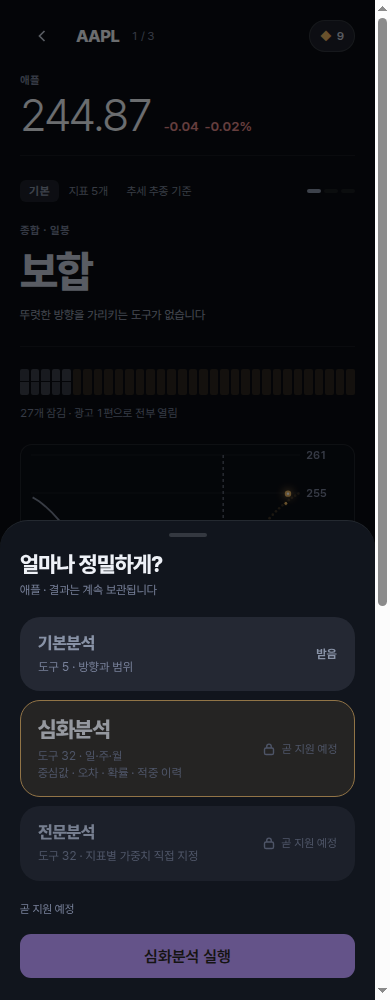
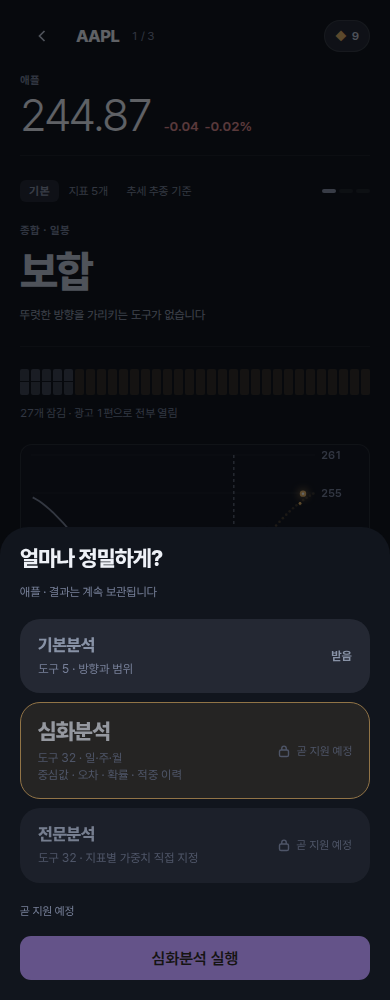
feat(mobile): 단계 선택 시트(6b)를 MSSheet 로 이관 — P1a Task 5
tier-sheet.js 가 자체 .sheet-scrim/.sheet 를 그리던 것을 걷어내고 공용
MSSheet.open({title, body, onClose})(P0)를 쓰도록 다시 짰다. MSSheet 의 첫
프로덕션 소비자가 생기면서 "넷(단계 선택·종목 추가·성향 변경·광고 권유)이
같은 것을 쓴다"가 실현되고, 하드웨어 뒤로가기가 시트부터 닫는다는 사양을
실증할 화면이 앱에 처음 생겼다(Task 7 이 여기 기댄다).

report.js 의 실제 호출 계약({sym,tier,name,balance,cap,onRun,locked})은
그대로 보존했다 — 계획서의 {sym,onPick} 표기는 지시적 요약이었을 뿐이라
report.js 를 고칠 필요가 없었다. 잠금 표시(자물쇠·"곧 지원 예정"·값 숨김)도
그대로다 — report-blocks.js 의 PENDING 이 아직 안 비어 심화·전문 둘 다 잠긴
상태고, 브라우저 관문(report-locked-tiers)이 그 정직성을 계속 검증한다.

워치리스트(screens/watchlist.js ＋Add 시트)는 이번에 옮기지 않았다 — 그
화면 자체가 Task 6(재작성) 대상이라 지금 옮기면 다음 태스크가 다시 손댄다.
옛 .sheet-scrim/.sheet 골격은 그래서 style-sheet.css 에 남겨 두고, 이제
쓰이지 않는 .sheet-head/.sheet-title 만 정리했다(제목은 MSSheet 의
.ms-sheet-title 몫이 됐다).

test/tier-sheet.test.mjs 신규 — sheet.js 를 실제로 require 해 함께 돌리고
document 트리를 관측해 "MSSheet 를 실제로 부르는가"를 확인한다(소스
정규식이 아니다). 브리프의 5건 + 잠금·재오픈·close() 안전성 등 6건 추가.

./tests/run.sh 1591건 통과, node tools/gate-browser.mjs 8라우트 통과.

diff --git a/map/mobile/www/tier-sheet.js b/map/mobile/www/tier-sheet.js
@@ -5,17 +5,40 @@
 // (리뷰 판정, 2026-08-18). report.js 의 pendingOf()/tierBuyable() 이 그 조건을 계산해
 // locked:{full,custom} 로 넘긴다. 예전엔 custom 만 잠글 수 있었는데, 이번엔 full 도
 // 잠길 수 있어 어느 한쪽도 기본 선택으로 남으면 안 된다(아래 open() 의 picked 계산).
-(function () {
+//
+// P1a Task 5 — **MSSheet(sheet.js, P0)의 첫 프로덕션 소비자로 이관했다.** 예전엔 이 파일이
+// 자기 `.sheet-scrim`/`.sheet` 를 직접 그렸다(옛 유일한 소비자는 이제 screens/watchlist.js
+// 의 ＋Add 시트뿐 — 그쪽은 Task 6(워치리스트 재작성)에서 이관한다, 아래 참고). 자체 백드롭을
+// 없애고 `MSSheet.open({title, body, onClose})` 를 쓰면서 얻는 것 셋:
+//   ① 넷(단계 선택·종목 추가·성향 변경·광고 권유)이 정말 같은 컴포넌트를 쓰게 된다(설계 §3.4)
+//   ② 하드웨어 뒤로가기가 "시트부터 닫는다"는 사양(shell.js `MSSheet.closeTop()`)을 실제
+//      화면 하나가 실증한다 — Task 7 이 그 실증에 기댄다
+//   ③ 시트 스택(광고 권유가 단계 선택 시트 **위에** 열리는 것, 시안 진입점 1)이 가능해진다
+// 화면이 그리는 클래스 이름(.sheet-tier·.tier-full·.sheet-run 등)은 안 바꿨다 — 브라우저
+// 관문(gate-routes.mjs report-locked-tiers)이 이 이름들로 잠금 상태를 검증하고, report.js 가
+// 넘기는 호출 계약({sym,tier,name,balance,cap,onRun,locked})도 그대로다(호출부를 다시 읽어
+// 확인함 — 계획서의 {sym,onPick} 표기는 지시적 요약이었다).
+//
+// 워치리스트(screens/watchlist.js openAddSheet)를 이 라운드에 함께 옮기지 않은 이유: 그 화면은
+// 이미 `.sheet-scrim`/`.sheet` 를 직접 그리고 그 안에 ticker-picker.js 의 chrome(제목까지
+// 포함)을 통째로 얹는 구조라, MSSheet 로 옮기려면 ticker-picker.js 의 `multi:false` chrome
+// (자기 제목·부제)과 MSSheet 의 title 인자가 겹치는 문제를 풀어야 한다 — 그 화면 자체가
+// Task 6 에서 재작성 대상이라(브리프), 지금 옮겼다가 다음 태스크가 또 손대면 두 번 옮기는
+// 것이 된다. 대신 이번 태스크는 그 소비자를 절대 깨지 않는다(style-sheet.css 의 `.sheet-scrim`/
+// `.sheet` 골격을 그대로 남겨 둔다) — 확인: `node --test test/*.test.mjs` 전량 + 워치리스트
+// 화면 자체를 만지지 않음.
+(function (root, factory) {
+  if (typeof module !== "undefined" && module.exports) module.exports = factory();
+  else MSGlobals.define("MSTierSheet", factory());
+})(typeof self !== "undefined" ? self : this, function () {
   "use strict";
 
-  var busy = false;   // 보조 가드 — 실제 이중 과금 차단은 report.js 의 모듈 스코프 purchases 레코드가 한다
-                       // (화면을 떠났다 와도 유지된다). 여기는 같은 시트 안에서 Full 행 재탭·Run 재클릭으로
-                       // onRun 이 두 번 불리는 것만 막는다.
+  var busy = false;    // 보조 가드 — 실제 이중 과금 차단은 report.js 의 모듈 스코프 purchases 레코드가 한다
+                        // (화면을 떠났다 와도 유지된다). 여기는 같은 시트 안에서 Full 행 재탭·Run 재클릭으로
+                        // onRun 이 두 번 불리는 것만 막는다.
+  var handle = null;    // MSSheet.open() 이 돌려준 핸들 — close() 는 이걸로 닫는다(DOM 을 직접 찾지 않는다)
 
-  function close() {
-    var s = document.querySelector(".sheet-scrim");
-    if (s && s.parentNode) s.parentNode.removeChild(s);
-  }
+  function close() { if (handle) handle.close(); }
 
   // 시안 6b — 오른쪽 자리는 세 티어가 서로 다른 것을 보여준다: 기본은 "받음"(이미 무료로
   // 받았다), 심화·전문은 값(스쿱 수). 셋을 한 함수 안에서 분기하면 "왜 이 행만 다르게
@@ -57,7 +80,9 @@
     return r;
   }
 
-  // opts = { tier, balance, onRun(tier), locked:{full,custom} }
+  // opts = { sym, name, tier, balance, cap, onRun(tier), locked:{full,custom} } — report.js 의
+  // 실제 호출부(buildCta·afterCtaAd) 그대로. `tier`(현재 화면이 이미 보고 있는 티어)는 이
+  // 시트가 안 쓴다 — 참고용으로 넘어오지만 picked 계산은 늘 locked 에서만 나온다.
   function open(opts) {
     var o = opts || {}, locked = o.locked || {};
     // 기본 선택은 "지금 살 수 있는 첫 번째"다 — 심화(full)를 먼저 본다(원래도 기본값이었다).
@@ -65,11 +90,7 @@
     var picked = !locked.full ? "full" : (!locked.custom ? "custom" : null);
     var bal = (typeof o.balance === "number") ? o.balance : null;
     busy = false;
-    close();
-
-    var scrim = MSUi.el("div", "sheet-scrim");
-    scrim.addEventListener("click", function (e) { if (e.target === scrim) close(); });
-    var sheet = MSUi.el("div", "sheet");
+    close();   // 이전 시트가 남아 있으면 먼저 닫는다 — 안 그러면 재오픈마다 MSSheet 스택에 쌓인다
 
     function preview(cost) {
       // 표시 전용. 백엔드가 진짜 잔량을 돌려준다(SPEC §1).
@@ -77,15 +98,14 @@
       if (bal == null || bal < cost) return "";
       return bal + " → " + (bal - cost);
     }
+
+    // list 는 paint() 마다 다시 그리는 부분(티어 선택이 바뀔 때마다)이다. 제목은 이제
+    // MSSheet 가 그리고(`.ms-sheet-title`), 부제는 종목마다 고정이라 한 번만 그린다 — 둘 다
+    // 매 paint() 에 다시 만들 이유가 없다(재생성하면 스크롤 위치가 튈 수 있다).
+    var list = MSUi.el("div");
+
     function paint() {
-      sheet.innerHTML = "";
-      // 시안 6b 의 시트 머리 — 큰 제목("얼마나 정밀하게?") + 종목·보관 안내 부제. 예전엔
-      // 제목 자체가 "Analyse {sym}" 이라 종목별로 달라졌는데, 시안은 제목을 고정해 "정밀도를
-      // 고르는 화면"이라는 것부터 말하고 종목은 그 아래 한 줄로 내린다.
-      var head = MSUi.el("div", "sheet-head");
-      head.appendChild(MSUi.el("p", "sheet-title", MSStr.t.tsTitle));
-      head.appendChild(MSUi.el("p", "sheet-subtitle", (o.name || o.sym || "") + MSStr.t.tsResultsKept));
-      sheet.appendChild(head);
+      list.innerHTML = "";
 
       var tiers = MSUi.el("div", "sheet-tiers");
       tiers.appendChild(tierRow("basic", MSStr.t.tsBasic, MSStr.t.tsBasicDesc, { done: true }));
@@ -98,17 +118,17 @@
       tiers.appendChild(tierRow("custom", MSStr.t.tsCustom, MSStr.t.tsCustomDesc,
         { on: picked === "custom", locked: !!locked.custom, cost: MSWallet.COSTS.custom,
           onPick: function () { if (busy) return; picked = "custom"; paint(); } }));
-      sheet.appendChild(tiers);
+      list.appendChild(tiers);
 
       // picked 가 null 이면(심화·전문 둘 다 잠김) 고를 게 없다 — 비용 미리보기·Run 버튼을
       // 그리기 **전에** 여기서 끝낸다. 순서가 중요하다: preview(MSWallet.COSTS[picked]) 를
       // 먼저 부르면 picked=null → COSTS[null]=undefined → "9 → NaN" 이 그려진다(실측, 리뷰
       // 지시로 만든 관문 스크린샷에서 발견) — cost 가 없는 상태에서 cost 문구를 만들 수 없다.
       if (picked === null) {
-        sheet.appendChild(MSUi.el("p", "sheet-short", MSStr.t.tsSoon));
+        list.appendChild(MSUi.el("p", "sheet-short", MSStr.t.tsSoon));
         var run0 = MSUi.el("button", "btn btn-primary sheet-run", MSStr.t.tsFull + MSStr.t.tsRun);
         run0.disabled = true;
-        sheet.appendChild(run0);
+        list.appendChild(run0);
         return;
       }
 
@@ -127,7 +147,7 @@
       // 안 그린다. 상한을 지어내 보여주지 않는다(코디네이터 판정 2026-08-16, 종목 슬롯 문구와
       // 같은 이유 — 뒷받침 없는 숫자는 화면에 안 올린다).
       if (o.cap != null) costLine.appendChild(MSUi.el("span", "sheet-cost-cap", MSStr.t.walCap + o.cap));
-      if (pv || o.cap != null) sheet.appendChild(costLine);
+      if (pv || o.cap != null) list.appendChild(costLine);
 
       var cost = MSWallet.COSTS[picked];
       var run = MSUi.el("button", "btn btn-primary sheet-run",
@@ -138,8 +158,8 @@
       var unavailable = (bal == null);
       var short = !unavailable && bal < cost;
       run.disabled = short || unavailable;
-      if (unavailable) sheet.appendChild(MSUi.el("p", "sheet-short", MSStr.t.tsUnavailable));
-      else if (short) sheet.appendChild(MSUi.el("p", "sheet-short", MSStr.t.tsShort));
+      if (unavailable) list.appendChild(MSUi.el("p", "sheet-short", MSStr.t.tsUnavailable));
+      else if (short) list.appendChild(MSUi.el("p", "sheet-short", MSStr.t.tsShort));
       run.addEventListener("click", function () {
         if (busy) return;
         // picked 가 잠긴 티어일 수는 구조상 없다(잠긴 행은 onPick 이 안 달려 골라지지
@@ -149,13 +169,19 @@
         run.disabled = true; run.textContent = MSStr.t.tsRunning;
         if (o.onRun) o.onRun(picked);
       });
-      sheet.appendChild(run);
+      list.appendChild(run);
     }
-    paint();
 
-    scrim.appendChild(sheet);
-    document.body.appendChild(scrim);
+    // 시트 몸통 — 부제(종목·보관 안내) + list(티어·비용·실행). 예전엔 제목까지 이 파일이
+    // 직접 그렸는데(sheet-head), 이제 제목은 MSSheet 의 몫이라 여기선 부제부터 시작한다.
+    var body = MSUi.el("div");
+    body.appendChild(MSUi.el("p", "sheet-subtitle", (o.name || o.sym || "") + MSStr.t.tsResultsKept));
+    body.appendChild(list);
+
+    handle = MSSheet.open({ title: MSStr.t.tsTitle, body: body, onClose: function () { handle = null; } });
+    paint();
+    return handle;
   }
 
-  window.MSTierSheet = { open: open, close: close };
-})();
+  return { open: open, close: close };
+});

diff --git a/map/mobile/www/style-sheet.css b/map/mobile/www/style-sheet.css
@@ -3,22 +3,23 @@
    <link> 순서를 바꾸거나 한 장을 빼면 나중 규칙이 앞 규칙을 덮던 관계가 끊긴다.
    순서는 이 머리의 `분할본 N/M` 이 정본이고, 관문(style-split.test.mjs)이 그것과
    index.html 의 <link> 차례를 대조한다 — 사람이 기억하는 순서에 기대지 않는다. */
-/* ===== 바텀시트 공통 골격(시안 12a·6b — 두 시트가 이 셋을 함께 쓴다: tier-sheet.js,
-   screens/watchlist.js openAddSheet) ===== */
+/* ===== 바텀시트 공통 골격(시안 12a) — 지금 남은 유일한 직접 소비자는
+   screens/watchlist.js 의 openAddSheet(＋Add) 다. tier-sheet.js(6b)는 P1a Task 5 에서
+   MSSheet(sheet.js, 아래 §"공용 하단 시트")로 이관했다 — 워치리스트는 그 화면 자체가
+   Task 6(재작성) 대상이라 이 라운드엔 함께 옮기지 않았다(tier-sheet.js 머리 주석 참고).
+   그래서 이 골격은 아직 지운다. ===== */
 .sheet-scrim { position:fixed; inset:0; background:rgba(0,0,0,.55); display:flex; align-items:flex-end; z-index:20; }
-/* 상단 라운드 28px(시안 고정값) + 드래그 손잡이. 두 시트 모두 같은 손잡이를 쓰므로 .sheet
-   자신이 ::before 로 그린다 — 그려야 할 곳마다 다시 그리면 한쪽만 잊기 쉽다. */
+/* 상단 라운드 28px(시안 고정값) + 드래그 손잡이. .sheet 자신이 ::before 로 그린다. */
 .sheet { position:relative; width:100%; max-height:80vh; overflow-y:auto; background:var(--sheet);
          border-top:1px solid var(--hairline-2); border-radius:28px 28px 0 0;
          padding:30px 20px calc(22px + env(safe-area-inset-bottom)); }
 .sheet::before { content:""; position:absolute; top:12px; left:50%; transform:translateX(-50%);
                   width:38px; height:4px; border-radius:99px; background:var(--border-strong); }
 
-/* 시트 머리 — 큰 제목 + 부제 두 줄(시안 12a·6b 공통 패턴). 잔량 필은 더 이상 여기 없다 —
-   심화분석 행 자체가 값을 보여주고, 잔량 대조는 costLine("쓰면 12 → 9")의 몫이다. */
-.sheet-head { margin-bottom:20px; }
-.sheet-title { margin:0; font-size:var(--fs-title); font-weight:var(--fw-title); letter-spacing:var(--ls-title); }
-.sheet-subtitle { margin:6px 0 0; font-size:var(--fs-sub); color:var(--ink-5); }
+/* 시트 부제(시안 6b) — tier-sheet.js 가 .ms-sheet-body 안에 그린다. 제목 자체는 이제
+   MSSheet 의 .ms-sheet-title 몫이라 여기 남는 건 부제 한 줄뿐이다(예전엔 .sheet-head 가
+   제목+부제를 함께 묶고 아래 여백 20px 를 줬는데, 그 역할을 이 규칙 하나가 이어받는다). */
+.sheet-subtitle { margin:6px 0 20px; font-size:var(--fs-sub); color:var(--ink-5); }
 
 /* 단계 카드 3장(시안 6b) — 목록형 대신 각자 배경을 가진 카드다. 선택·강조는 배경·테두리·
    글자색으로만 한다(좌측 세로 라인 금지, 프로젝트 전역 규칙). */
@@ -86,9 +87,9 @@ body.ms-dual .wl-row.is-sel { background:var(--steel-soft); }
 
 /* ===== 공용 하단 시트(sheet.js, Task 5) =====
    단계 선택(6b)·종목 추가(12a)·성향 변경(12b)·광고 권유가 전부 이 컴포넌트 하나를 쓴다.
-   위 .sheet-scrim/.sheet(tier-sheet.js·screens/watchlist.js 가 이미 직접 그린다)와는
-   이름을 겹치지 않게 새로 둔다 — 기존 두 소비자를 깨지 않고, P1 에서 그 화면들이
-   이 컴포넌트로 옮겨온다. --sheet 는 #11151d(style-base.css) — 시안 배경값과 같다. */
+   위 .sheet-scrim/.sheet 와는 이름을 겹치지 않게 새로 뒀다 — tier-sheet.js(6b)는 이제
+   이 컴포넌트로 이관 완료(Task 5), screens/watchlist.js(12a)는 아직 옛 골격을 쓴다
+   (Task 6 에서 옮겨온다). --sheet 는 #11151d(style-base.css) — 시안 배경값과 같다. */
 .ms-sheet-backdrop {
   position:fixed; inset:0; z-index:40;
   display:flex; align-items:flex-end;
@@ -105,14 +106,16 @@ body.ms-dual .wl-row.is-sel { background:var(--steel-soft); }
      화면 CSS 의 font-size·font-weight·letter-spacing 을 토큰만 허용해 정확히 겹치는 크기
      토큰(20px)은 없다. 처음엔 절대오차만 보고 --fs-section(17px, 오차 3)을 골랐는데,
      리뷰가 짚은 진짜 기준은 오차가 아니라 **이 파일 안에 이미 같은 종류의 시트 제목이
-     있다는 것**이다 — 바로 위 .sheet-title(tier-sheet.js·screens/watchlist.js 가 그리는
-     6b·12a 시트 제목)이 --fs-title(22px)/--ls-title 을 쓴다. 이 태스크의 목적 자체가
-     "넷이 같은 시트를 써서 값이 안 갈리게" 인데 신구 시트 제목이 22px/17px 로 갈리면
-     P1 에서 tier-sheet 를 MSSheet 로 이관하는 순간 제목이 작아지는 회귀로 드러난다.
-     그래서 --fs-title(22px, 오차 2)+--ls-title 로 맞춘다 — 20px 원안보다 기존 시트
-     제목과의 일치를 우선했다. 무게는 --fw-section 과 --fw-title 이 둘 다 800 이라 값은
-     이미 같지만, 같은 역할 세트로 통일해 --fw-title 로 함께 바꾼다. 보존 대상으로 지정된
-     값은 라운드 28·82vh·안전영역 셋뿐이라(브리프), 이 근사는 그 셋을 건드리지 않는다. */
+     있었다는 것**이다 — 그 시절 .sheet-title(당시 tier-sheet.js 가 그리던 6b 시트 제목,
+     지금은 지워졌다 — Task 5 가 이관하며 제목 자체를 MSSheet 몫으로 넘겼다)이 --fs-title
+     (22px)/--ls-title 을 썼다. 이 태스크의 목적 자체가 "넷이 같은 시트를 써서 값이 안
+     갈리게" 인데 신구 시트 제목이 22px/17px 로 갈리면 tier-sheet 를 MSSheet 로 이관하는
+     순간 제목이 작아지는 회귀로 드러난다. 그래서 --fs-title(22px, 오차 2)+--ls-title 로
+     맞췄다 — 20px 원안보다 기존 시트 제목과의 일치를 우선했다. 무게는 --fw-section 과
+     --fw-title 이 둘 다 800 이라 값은 이미 같지만, 같은 역할 세트로 통일해 --fw-title 로
+     함께 뒀다. 보존 대상으로 지정된 값은 라운드 28·82vh·안전영역 셋뿐이라(브리프), 이
+     근사는 그 셋을 건드리지 않는다. 이관이 끝난 지금도 이 근거를 남기는 이유는 이 값이
+     "왜 --fs-section 이 아니라 --fs-title 인가"의 유일한 기록이기 때문이다. */
   margin:0 0 14px;
   font-size:var(--fs-title); font-weight:var(--fw-title); letter-spacing:var(--ls-title);
   color:var(--ink);
